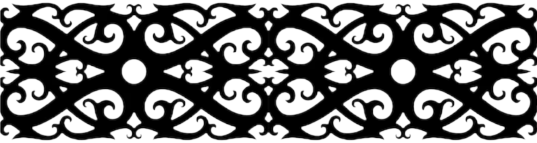
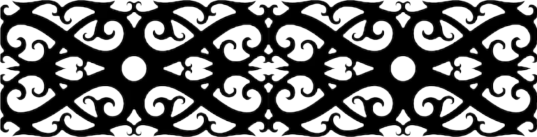
Improve Dayak Strip

diff --git a/components/main_page/hero.tsx b/components/main_page/hero.tsx
@@ -1,6 +1,6 @@
 const Hero = () =>{
-    return (<section className="bg-hero-bg h-screen relative">
-        {dayak_strip('h-32 top-0 opacity-40')}
+    return (<section className="bg-hero-bg h-[93vh] relative">
+        {dayak_strip('h-20 lg:h-32 top-0 opacity-40')}
         <section className="flex max-container padding-container justify-between pt-36">
             <div></div>
             <div className="font-extrabold z-20 [text-shadow:_0_3px_0_rgb(0_0_0_/_40%)]">
@@ -19,7 +19,12 @@ const Hero = () =>{
 
 const dayak_strip = (position : string) =>{
     return (
-        <section className={`absolute bg-dayak-motif w-full bg-center ${position}`}></section>
+        <section className={`absolute bg-dayak-motif w-full bg-center ${position}`} 
+        style={{
+            backgroundRepeat: 'repeat-x', // Repeats the pattern horizontally
+            backgroundSize: 'auto 100%', // Scales the pattern to fit the height of the header
+          }}
+        ></section>
     )
 }
 

diff --git a/constants.ts b/constants.ts
@@ -134,7 +134,6 @@ export const OBJECTIVES = [
 
 export const OBJECTIVES_TEXT = 'Persatuan Mahasiswa Sarawak is an association of students from Sarawak in Universiti Malaya.'
 
-
 export const LEARN_MORE_SECTION = [
     {
         name : 'Main Page',
